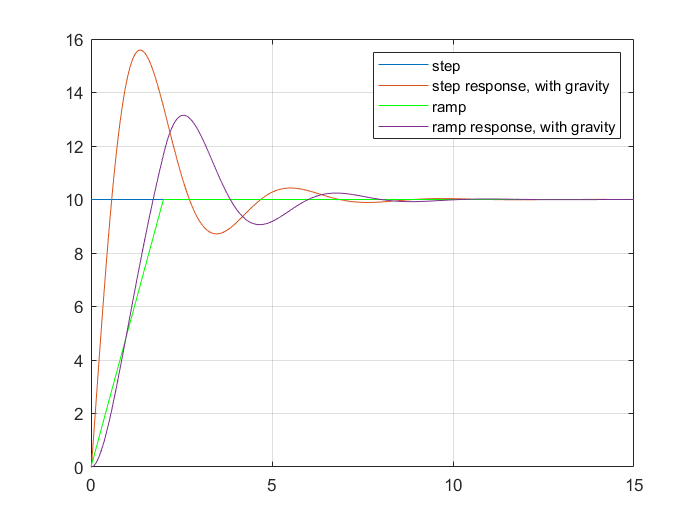
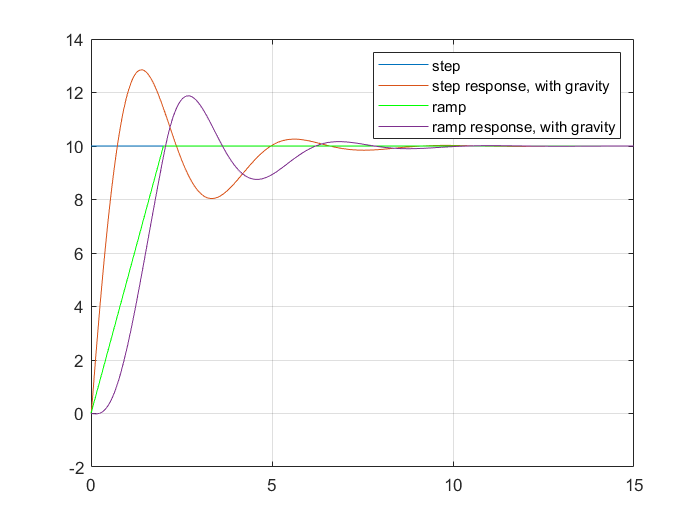
Collegamenti forza e prove state space

diff --git a/Esperimenti_droni_2d/drone_2d_FdT_v2.m b/Esperimenti_droni_2d/drone_2d_FdT_v2.m
@@ -313,7 +313,7 @@ gradino = desiredHeight * ones(Tfinal/Tc + 1, 1);
 figure
 plot( t, gradino)
 hold
-plot( t, desiredHeight*step(fdtClosedLoopzDisc, Tfinal) + ...
+plot( t, desiredHeight*step(fdtClosedLoopzDisc, Tfinal) - ...
     step(fdtClosedLoopGDisc, Tfinal) )
 grid on
 legend('step', 'risposta step e disturbo gravità')
@@ -336,15 +336,30 @@ legend('risposta step e disturbo gravità')
 figure
 plot( t, gradino)
 hold
-plot( t, desiredHeight*step(fdtClosedLoopzDisc, Tfinal) + ...
+plot( t, desiredHeight*step(fdtClosedLoopzDisc, Tfinal) - ...
     step(fdtClosedLoopGDisc, Tfinal) )
 plot( t,ramp, 'green')
-plot( t, rampResponse + step(fdtClosedLoopGDisc, Tfinal) )
+plot( t, rampResponse - step(fdtClosedLoopGDisc, Tfinal) )
 grid on
 legend('step', 'step response, with gravity', 'ramp', ...
     'ramp response, with gravity');
 
+%% forza esercitata dal drone # NON FUNGE BENISSIMO
+Fz = feedback(fdtCtrlz, fdtPlantZ);
+Fg = feedback(1/m, fdtCtrlz*fdtPlantG);
+
+figure
+% plot( t, desiredHeight*step(Fz, Tfinal) - ...
+%    step(Fg, Tfinal) )
+plot(  desiredHeight*step(Fz, Tfinal) )
+legend('risposta FORZA step')
+figure
+plot(  step(Fg, Tfinal) )
+grid on
+legend('risposta disturbo gravità')
+
 %% y con azione "disturbante" di z
+%{
 % in realtà, con le fdt disacoppiate, z non influisce su y
 fdtZcmdF = feedback(fdtCtrlz, fdtPlantZ);
 fdtFY = feedback(fdtPlanty, -1*fdtCtrly*fdtClosedLoopt);
@@ -357,3 +372,4 @@ impulseFY = impulse(fdtFY, Tfinal);
 stepZY = conv(stepZF, impulseFY);
 figure
 plot(stepZY)
+%}

diff --git a/Esperimenti_droni_2d/drone_2d_VS_SS.m b/Esperimenti_droni_2d/drone_2d_VS_SS.m
@@ -1,8 +1,35 @@
-%% plant z, dato F
-Az = [
+%% parametri del modello fisico
 
-%% plant z, dato g
+m = 0.2; % massa
+i = 0.1; % momento d'inerzia
+g = 9.81; % accelerazione di gravità
 
-%% palnt theta
+%% matrici plant z, dato F
+Az = [ 0 1; 0 0];
+Bz = [ 0 -1/m ]';
+Cz = [ 1 0 ];
+Dz = [ 0 ];
 
-%% plant y
+%% matrici plant z, dato g
+Ag = [ 0 1; 0 0];
+Bg = [ 0 1 ]';
+Cg = [ 1 0 ];
+Dg = [ 0 ];
+
+%% matrici palnt theta
+At = [ 0 1; 0 0];
+Bt = [ 0 1 ]';
+Ct = [ 1 0 ];
+Dt = [ 0 ];
+
+%% matrici plant y
+Ay = [ 0 1; 0 0];
+By = [ 0 1/m ]';
+Cy = [ 1 0 ];
+Dy = [ 0 ];
+
+%% generazione modelli in variabili di stato VS
+vsz = ss(Az, Bz, Cz, Dz);
+vsg = ss(Ag, Bg, Cg, Dg);
+vst = ss(At, Bt, Ct, Dt);
+vsy = ss(Ay, By, Cy, Dy);
